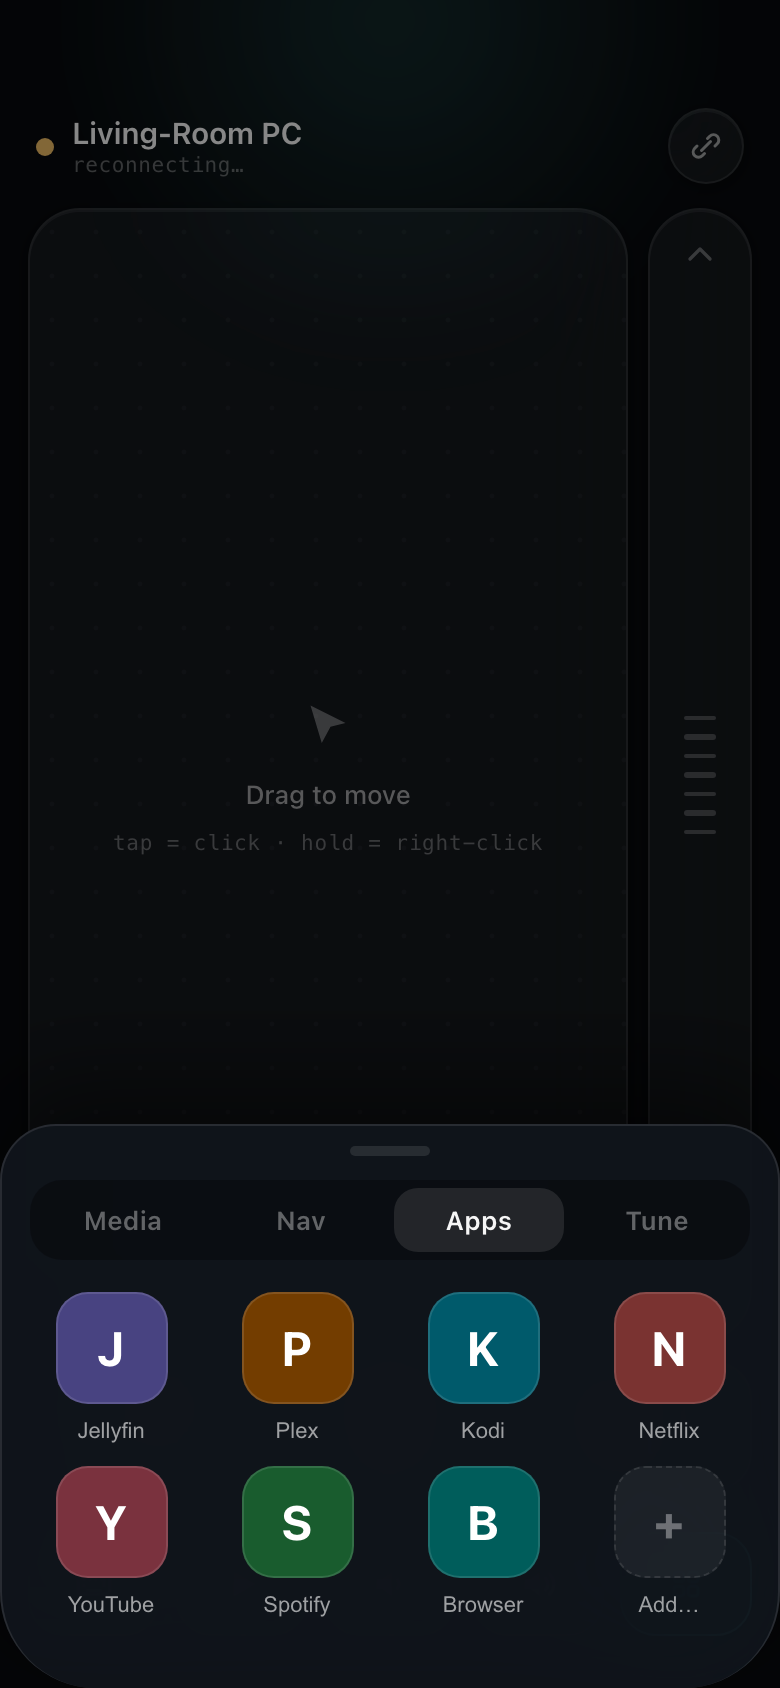
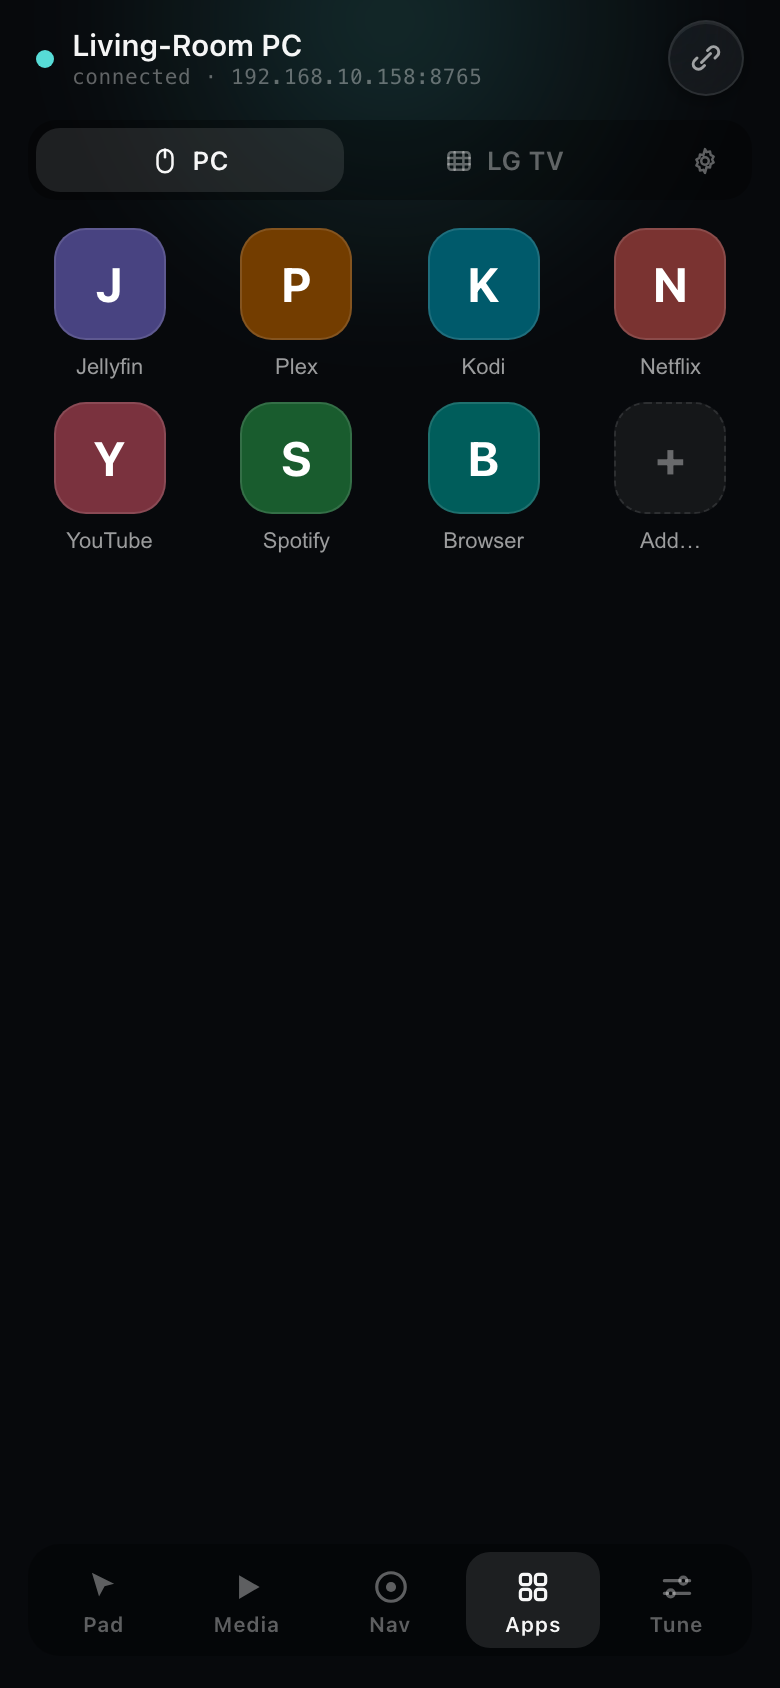
Refresh the screenshots for the tabbed UI and TV tab; add deep links (#18)
The README images still showed the swipe-up drawer and had no TV tab.
Seven are regenerated against the live HTPC — real address, real LG TV
device, teal dots on the learned codes — and four unreferenced leftovers
are removed. The connect screen and the HTPC popup mockups are unchanged.

docs/screenshot.mjs makes this reproducible: it drives the installed
Chrome with iPhone emulation (390×844 at 2×) via playwright-core, so the
layout is the phone's rather than a desktop window's. Headless Chrome on
its own ignores the viewport meta and produced cropped captures.

To let a script open a specific view, the controller now honours
?tab=media and ?device=tv&tab=nav. That's also a handy home-screen
bookmark straight to the TV. The "device no longer exists" reset waits
for the device list to arrive, or it cleared the deep-linked device on
the very first render.

Controls table rewritten for the tab bar, and the .deb no longer ships
docs/ into /opt — 1.5 MB of screenshots the rpm was already excluding.

diff --git a/web/static/glide-controller.jsx b/web/static/glide-controller.jsx
@@ -68,12 +68,19 @@ function Section({ centred, children }) {
 function send(obj) { window.WS.send(obj); }
 function key(k)   { send({ type: 'key', key: k }); }
 
+/* Deep-link params: ?device=tv&tab=nav opens straight to that view. Handy
+   for a home-screen bookmark to the TV, and how the README screenshots are
+   generated reproducibly. */
+const _qs = new URLSearchParams(location.search);
+const initialTab    = (want) => (_qs.get('tab') && want.includes(_qs.get('tab'))) ? _qs.get('tab') : null;
+const initialDevice = () => _qs.get('device') || null;
+
 /* ── main controller ── */
 function GlideController({ device = 'Living-Room PC' }) {
   const [vol,      setVol]      = useState(42);
   const [playing,  setPlaying]  = useState(false);
   const [muted,    setMuted]    = useState(false);
-  const [tab,      setTab]      = useState('pad');  // pad | media | nav | apps | tune
+  const [tab,      setTab]      = useState(initialTab(['pad','media','nav','apps','tune']) || 'pad');
   const [kb,       setKb]       = useState(false);
   const [typed,    setTyped]    = useState('');
   const [toast,    setToast]    = useState(null);
@@ -85,7 +92,7 @@ function GlideController({ device = 'Living-Room PC' }) {
   const [sens,     setSens]     = useState(60);
   const [scrollSpd,setScrollSpd]= useState(50);
   const [devices,  setDevices]  = useState(window.WS.getDevices());
-  const [activeDev,setActiveDev]= useState(null);   // null = the HTPC itself
+  const [activeDev,setActiveDev]= useState(initialDevice());   // null = the HTPC itself
   const [setup,    setSetup]    = useState(false);
 
   const tRef      = useRef(0);
@@ -99,9 +106,11 @@ function GlideController({ device = 'Living-Room PC' }) {
     return () => { off1(); off2(); off3(); };
   }, []);
 
-  /* A device tab is only meaningful while it still exists. */
+  /* A device tab is only meaningful while it still exists. Wait for the
+     list to actually arrive, or a deep-linked ?device= is cleared on the
+     very first render. */
   useEffect(() => {
-    if (activeDev && !devices.some((d) => d.id === activeDev)) setActiveDev(null);
+    if (devices.length && activeDev && !devices.some((d) => d.id === activeDev)) setActiveDev(null);
   }, [devices, activeDev]);
 
   const dev = devices.find((d) => d.id === activeDev) || null;
@@ -381,7 +390,7 @@ function DevicePanel({ dev, flash }) {
     (can('power') || can('input_select')) && ['power', 'Power', 'power'],
     can('learn')                        && ['tune',  'Tune',  'sliders'],
   ].filter(Boolean);
-  const [tab, setTab] = useState(TABS[0] ? TABS[0][0] : 'nav');
+  const [tab, setTab] = useState(initialTab(TABS.map((t) => t[0])) || (TABS[0] ? TABS[0][0] : 'nav'));
 
   /* learn progress from the server */
   useEffect(() => {

diff --git a/web/static/glide-controller.js b/web/static/glide-controller.js
@@ -104,11 +104,14 @@ function send(obj) {
 function key(k) {
   send({ type: "key", key: k });
 }
+const _qs = new URLSearchParams(location.search);
+const initialTab = (want) => _qs.get("tab") && want.includes(_qs.get("tab")) ? _qs.get("tab") : null;
+const initialDevice = () => _qs.get("device") || null;
 function GlideController({ device = "Living-Room PC" }) {
   const [vol, setVol] = useState(42);
   const [playing, setPlaying] = useState(false);
   const [muted, setMuted] = useState(false);
-  const [tab, setTab] = useState("pad");
+  const [tab, setTab] = useState(initialTab(["pad", "media", "nav", "apps", "tune"]) || "pad");
   const [kb, setKb] = useState(false);
   const [typed, setTyped] = useState("");
   const [toast, setToast] = useState(null);
@@ -120,7 +123,7 @@ function GlideController({ device = "Living-Room PC" }) {
   const [sens, setSens] = useState(60);
   const [scrollSpd, setScrollSpd] = useState(50);
   const [devices, setDevices] = useState(window.WS.getDevices());
-  const [activeDev, setActiveDev] = useState(null);
+  const [activeDev, setActiveDev] = useState(initialDevice());
   const [setup, setSetup] = useState(false);
   const tRef = useRef(0);
   const hiddenInput = useRef(null);
@@ -135,7 +138,7 @@ function GlideController({ device = "Living-Room PC" }) {
     };
   }, []);
   useEffect(() => {
-    if (activeDev && !devices.some((d) => d.id === activeDev)) setActiveDev(null);
+    if (devices.length && activeDev && !devices.some((d) => d.id === activeDev)) setActiveDev(null);
   }, [devices, activeDev]);
   const dev = devices.find((d) => d.id === activeDev) || null;
   useEffect(() => {
@@ -447,7 +450,7 @@ function DevicePanel({ dev, flash }) {
     (can("power") || can("input_select")) && ["power", "Power", "power"],
     can("learn") && ["tune", "Tune", "sliders"]
   ].filter(Boolean);
-  const [tab, setTab] = useState(TABS[0] ? TABS[0][0] : "nav");
+  const [tab, setTab] = useState(initialTab(TABS.map((t) => t[0])) || (TABS[0] ? TABS[0][0] : "nav"));
   useEffect(() => {
     return window.WS.onLearn((m) => {
       if (m.device !== dev.id) return;

diff --git a/README.md b/README.md
@@ -52,31 +52,71 @@ The popup is smart about when it comes back. Locking your phone, switching apps,
 <tr>
 <td align="center" width="50%">
 
-**Phone — trackpad view**
+**Phone — trackpad**
 
 ![Controller](docs/screen-phone-controller.png)
 
-*Drag to move. Tap to click. Right strip scrolls.*
+*Drag to move, tap to click, right strip scrolls. Quick actions underneath; sections along the bottom.*
 
 </td>
 <td align="center" width="50%">
 
-**Phone — media controls**
+**Phone — media**
 
-![Media drawer](docs/screen-phone-media.png)
+![Media](docs/screen-phone-media.png)
 
-*Swipe up or tap ⊞ to open. Prev / seek / play / seek / next + volume.*
+*Prev / seek / play / seek / next, volume, stop, fullscreen.*
 
 </td>
 </tr>
 <tr>
 <td align="center" width="50%">
 
+**Phone — navigation**
+
+![Nav](docs/screen-phone-nav.png)
+
+*D-pad for Kodi, Netflix, anything full-screen.*
+
+</td>
+<td align="center" width="50%">
+
 **Phone — app launcher**
 
-![Apps drawer](docs/screen-phone-apps.png)
+![Apps](docs/screen-phone-apps.png)
 
 *One tap launches Jellyfin, Plex, Kodi, Netflix, YouTube, Spotify, or browser.*
+
+</td>
+</tr>
+<tr>
+<td align="center" width="50%">
+
+**TV tab — navigation**
+
+![TV nav](docs/screen-phone-tv.png)
+
+*Same layout, driving the TV over IR. Teal dots mark buttons with local codes.*
+
+</td>
+<td align="center" width="50%">
+
+**TV tab — power & source**
+
+![TV power](docs/screen-phone-tv-power.png)
+
+*Discrete On and HDMI 1–4 — idempotent, so reliable even when the app can't know the TV's state.*
+
+</td>
+</tr>
+<tr>
+<td align="center" width="50%">
+
+**TV tab — media**
+
+![TV media](docs/screen-phone-tv-media.png)
+
+*Transport, volume and channel, sent locally in ~20 ms.*
 
 </td>
 <td align="center" width="50%">
@@ -85,11 +125,13 @@ The popup is smart about when it comes back. Locking your phone, switching apps,
 
 ![Connecting](docs/screen-phone-connect.png)
 
-*What you see the moment you open the URL. WebSocket connects automatically.*
+*What you see the moment you open the URL. Connects automatically.*
 
 </td>
 </tr>
 </table>
+
+Regenerate these with `node docs/screenshot.mjs http://<htpc>:8765` — see the header of that file.
 
 ---
 
@@ -216,11 +258,12 @@ The icon that appears is the Glide teal cursor mark. Opening it launches straigh
 | Drag on scroll strip (right side) | Scroll |
 | ▶ / ⏸ quick button | Play / Pause |
 | 🔉 / 🔊 quick buttons | Volume down / up |
-| ⊞ button → Media tab | Full media controls + seek |
-| ⊞ button → Nav tab | D-pad + Back + Fullscreen |
-| ⊞ button → Apps tab | App launcher |
-| ⊞ button → Tune tab | Speed, brightness, sleep |
 | ⌨ button | Open keyboard for text input |
+| **Media** tab (bottom bar) | Full media controls + seek, stop, fullscreen |
+| **Nav** tab | D-pad, OK, Back, fullscreen |
+| **Apps** tab | App launcher |
+| **Tune** tab | Pointer / scroll speed, brightness, sleep |
+| **PC / TV** strip (top) | Switch between the HTPC and any configured device |
 
 ---
 
